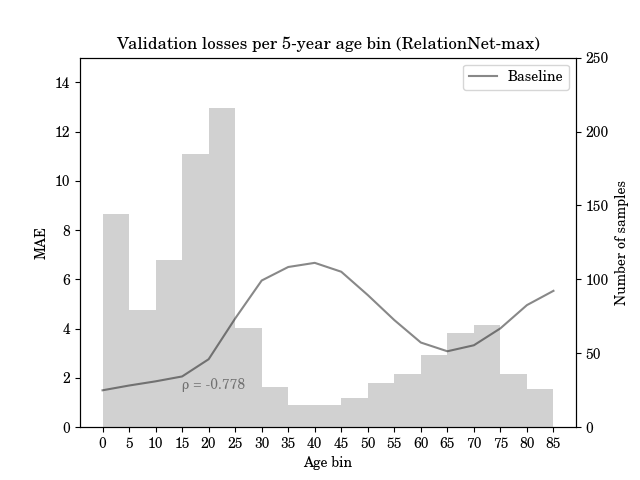
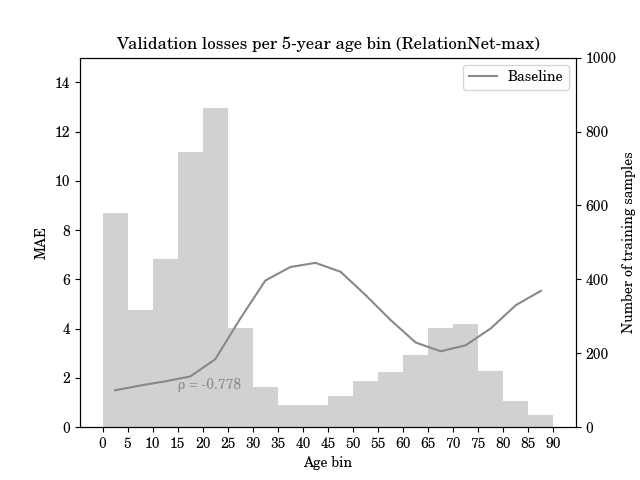
fix plotting code

diff --git a/age_prediction/plot_results.py b/age_prediction/plot_results.py
@@ -40,26 +40,27 @@ def describe_job(cfg):
     return describe_strat(cfg) + f" ({cfg['arch']})"
 
 def load_results():
-    with open(f"{ROOT_DIR}/bookkeeping.yaml", 'r') as f:
-        parsed_yaml = yaml.safe_load(f)
-    job_ids = [job_id for d in parsed_yaml.values() for job_id in d.values()]
-    job_ids = list(filter(has_results, job_ids))
-
     all_results = {}
-    for job_id in job_ids:
-        #train_losses = np.loadtxt(f"{RESULTS_DIR}/{job_id}/train_losses_over_time.txt")
-        #val_losses = np.loadtxt(f"{RESULTS_DIR}/{job_id}/val_losses_over_time.txt")
-        val_preds = pd.read_csv(f"{RESULTS_DIR}/{job_id}/best_model_val_preds.csv")
-        with open(f"{RESULTS_DIR}/{job_id}/config.json") as f:
-            cfg = json.load(f)
-        
-        job_desc = describe_job(cfg)
-        results = {}
-        #results['train_losses'] = train_losses
-        #results['val_losses'] = val_losses
-        results['val_preds'] = val_preds
-        results['config'] = cfg
-        all_results[job_desc] = results
+
+    with open(f"{ROOT_DIR}/bookkeeping.yaml", 'r') as f:
+        jobs = yaml.safe_load(f)
+
+        for (arch, d) in jobs.items():
+            for (strat, job_id) in d.items():
+                if not has_results(job_id):
+                    continue
+
+                val_preds = pd.read_csv(f"{RESULTS_DIR}/{job_id}/best_model_val_preds.csv")
+                with open(f"{RESULTS_DIR}/{job_id}/config.json") as f:
+                    cfg = json.load(f)
+                
+                #job_desc = describe_job(cfg)
+                job_desc = f"{strat} ({arch})"
+                results = {
+                    'val_preds': val_preds,
+                    'cfg': cfg
+                }
+                all_results[job_desc] = results
     
     return all_results
 
@@ -82,9 +83,13 @@ def plot_losses_over_time(results, fname):
     fig.savefig(f"{FIGURES_DIR}/{fname}")
     plt.close(fig)
 
-def plot_val_losses(all_results, arch, job_descs, fname):
-    MAXBIN = 17 # Maximum 5y age bin we're interested in (we ignore 90+)
-    BINSIZE = 5 # Width of each bin for plotting purposes
+def plot_val_losses(all_results, arch, job_descs, fname, sampling=None):
+    MAX_BIN = 17 # Maximum 5y age bin we're interested in (we ignore patients aged 90+)
+    BIN_WIDTH = 5 # Width of each bin for plotting purposes
+    MAX_AGE = (MAX_BIN+1)*BIN_WIDTH - 1
+    TRAIN_VAL_RATIO = 4. # Ratio of training set size to validation set size (it was an 80%/20% split)
+
+    LOSS_MAX_BIN = 9
 
     if '-' in arch:
         subname = arch[arch.index('-')+1:]
@@ -95,8 +100,8 @@ def plot_val_losses(all_results, arch, job_descs, fname):
         base_arch = arch
         pred_key = 'age_pred'
 
-    def mae(bin, df):
-        subjects_in_bin = df[(df['age'] // BINSIZE) == bin]
+    def mae(bin, df, bin_width=BIN_WIDTH):
+        subjects_in_bin = df[(df['age'] // bin_width) == bin]
         assert len(subjects_in_bin) > 0
         return np.mean(np.abs(subjects_in_bin['age'] - subjects_in_bin[pred_key]))
     
@@ -117,54 +122,95 @@ def plot_val_losses(all_results, arch, job_descs, fname):
     ax.set_ylabel("MAE")
     ax.set_ylim(0, 15)
     #ax2.set_ylabel("Number of samples", rotation=270)
-    ax2.set_ylabel("Number of samples")
-    ax2.set_ylim(0, 250)
+    ax2.set_ylabel("Number of training samples")
+    ax2.set_ylim(0, 1000)
     
-    # Calculate bin counts of the val df (these should be the same across all models)
-    bins = np.arange(MAXBIN + 1)
-    display_bins = [bin*BINSIZE for bin in bins]
+    # Calculate the bin counts of the train df (this should be the same across all models)
+    bins = np.arange(MAX_BIN + 1)
+    display_bins = [bin*BIN_WIDTH for bin in bins]
+    display_bins_incl = display_bins + [MAX_AGE+1]
+    centroids = [db + (BIN_WIDTH/2) for db in display_bins]
     val_df = list(all_results.values())[0]['val_preds']
-    bin_counts = [sum((val_df['age'] // BINSIZE) == bin) for bin in bins]
+    train_bin_counts = [TRAIN_VAL_RATIO * sum((val_df['age'] // BIN_WIDTH) == bin) for bin in bins]
 
     job_descs.insert(0, ('baseline', "Baseline", '#888888', '-')) # Show the curve for the baseline model in every plot
     for i, (desc, label, color, style) in enumerate(job_descs):
         cfg = f"{desc} ({base_arch})"
+        display_cfg = f"{desc} ({arch})"
         if cfg not in all_results:
-            print(f"Couldn't find {cfg} in results, skipping")
+            print(f"Couldn't find {display_cfg} in results, skipping")
+            print("======")
             continue
 
-        display_cfg = f"{desc} ({arch})"
         val_df = all_results[cfg]['val_preds']
 
-        # Calculate and print the MAE across all predictions
+        # Calculate and print the val MAE across all predictions
         overall_mae = np.mean(np.abs(val_df['age'] - val_df[pred_key]))
         print(f"Overall MAE for {display_cfg}: {overall_mae:.3f}")
 
-        # Smooth losses using a Gaussian kernel, and plot them
-        losses_per_bin = np.array([mae(bin, val_df) for bin in bins])
-        smoothed_losses = np.zeros(losses_per_bin.shape)
+        # Smooth val losses using a Gaussian kernel, and plot them
+        val_losses_per_bin = np.array([mae(bin, val_df) for bin in bins])
+        smoothed_losses = np.zeros(val_losses_per_bin.shape)
         sigma = 1.
         for bin in bins:
             kernel = np.exp(-(bins - bin) ** 2 / (2 * sigma ** 2))
             kernel = kernel / sum(kernel)
-            smoothed_losses[bin] = sum(losses_per_bin * kernel)
+            smoothed_losses[bin] = sum(val_losses_per_bin * kernel)
 
-        ax.set_xticks(display_bins)
-        ax.plot(display_bins, smoothed_losses, label=label, color=color, linestyle=style)
+        ax.set_xticks(display_bins_incl)
+        ax.plot(centroids, smoothed_losses, label=label, color=color, linestyle=style)
+        ax.set_zorder(10)
+        ax.patch.set_alpha(0.)
         
-        # Calculate Pearson correlation between losses / bin counts and annotate the plot with it
-        pcorr, _ = stats.pearsonr(losses_per_bin, bin_counts)
+        # Calculate Pearson correlation between val losses / train bin counts (per 5y bin) and annotate the plot with it
+        pcorr, _ = stats.pearsonr(val_losses_per_bin, train_bin_counts)
         print(f"ρ for {display_cfg}: {pcorr:.3f}")
         anno_x = [15, 30, 45, 60, 75][i] # X location of annotation
-        anno_y = smoothed_losses[anno_x//BINSIZE]-.5 # Y location of annotation
+        anno_y = smoothed_losses[anno_x//BIN_WIDTH]-.5 # Y location of annotation
         ax.annotate(f"ρ = {pcorr:.3f}", (anno_x, anno_y), color=color)
 
-        print()
+        # Calculate the validation loss per 1-year age bin.
+        # Group the losses themselves into 1y bins, and report their entropy.
+        val_bins_1y = [bin for bin in np.arange(MAX_AGE+1) if bin in set(val_df['age'] // 1)]
+        val_losses_per_1y_bin = np.array([mae(bin, val_df, bin_width=1) for bin in val_bins_1y])
+        val_loss_counts = {}
+        for loss_bin in range(LOSS_MAX_BIN+1):
+            val_loss_counts[loss_bin] = sum(
+                loss >= loss_bin and loss < (loss_bin+1) for loss in val_losses_per_1y_bin)
+        val_loss_counts[LOSS_MAX_BIN+1] = sum(loss >= (LOSS_MAX_BIN+1) for loss in val_losses_per_1y_bin)
+        n_losses = len(val_bins_1y)
+        ps = [count / n_losses for count in val_loss_counts.values()]
+        entropy = sum([0 if p == 0 else (-p * np.log(p)) for p in ps])
+        print(f"Entropy for {display_cfg}: {entropy:.3f}")
+
+        # Report the final criterion (MAE*entropy)
+        criterion = overall_mae*entropy
+        print(f"Criterion (=MAE*entropy) for {display_cfg}: {criterion:.3f}")
+
+        print("======")
     
     # Add legend
-    ax.legend()
-    bin_counts = [sum((val_df['age'] // BINSIZE) == bin) for bin in bins]
-    ax2.hist(display_bins, bins=display_bins, weights=bin_counts, color='#0f0f0f30')
+    l = ax.legend()
+    l.set_zorder(20)
+    x = display_bins
+    weights = train_bin_counts
+    color = '#0f0f0f30'
+    if sampling == 'under':
+        USAMP_LIMIT = 18
+        x = [x, x]
+        under_counts = [USAMP_LIMIT*5 for bin in bins]
+        under_counts[-1] = USAMP_LIMIT*3
+        weights = [weights, under_counts]
+        color = [color, 'pink']
+    elif sampling == 'over':
+        OSAMP_LIMIT = 126
+        x = [x, x]
+        over_counts = [OSAMP_LIMIT*5 for bin in bins]
+        over_counts[-1] = OSAMP_LIMIT*3
+        weights = [weights, over_counts]
+        color = [color, '#87cefa80']
+    ax2.hist(x, bins=display_bins_incl, weights=weights, color=color, stacked=False)
+
     fig.savefig(f"{FIGURES_DIR}/{fname}")
     plt.close(fig)
 
@@ -189,24 +235,28 @@ def main():
             [
                 ('under', "Undersampling", 'red', '-'),
                 ('scale-down', "Scaling down", 'red', '--'),
+            ],
+            f"val_losses_{arch}_undersampling.png", sampling='under')
+        plot_val_losses(all_results, arch,
+            [
                 ('over', "Oversampling", 'royalblue', '-'),
                 ('scale-up', "Scaling up", 'royalblue', '--')
             ],
-            f"val_losses_{arch}_resampling.png")
+            f"val_losses_{arch}_oversampling.png", sampling='over')
         plot_val_losses(all_results, arch,
             [
                 ('inv', "Inverse weighting", 'red', '-'),
-                ('inv + lds', "Inverse weighting + LDS", 'royalblue', '-'),
-                ('inv + fds', "Inverse weighting + FDS", 'orange', '-'),
-                ('inv + lds + fds', "Inverse weighting + LDS + FDS", 'green', '-')
+                ('inv+lds', "Inverse weighting + LDS", 'royalblue', '-'),
+                ('inv+fds', "Inverse weighting + FDS", 'orange', '-'),
+                ('inv+lds+fds', "Inverse weighting + LDS + FDS", 'green', '-')
             ],
             f"val_losses_{arch}_reweighting_inv.png")
         plot_val_losses(all_results, arch,
             [
                 ('sqrt_inv', "Square-root inverse weighting", 'red', '-'),
-                ('sqrt_inv + lds', "Square-root inverse weighting + LDS", 'royalblue', '-'),
-                ('sqrt_inv + fds', "Square-root inverse weighting + FDS", 'orange', '-'),
-                ('sqrt_inv + lds + fds', "Square-root inverse weighting + LDS + FDS", 'green', '-')
+                ('sqrt_inv+lds', "Square-root inverse weighting + LDS", 'royalblue', '-'),
+                ('sqrt_inv+fds', "Square-root inverse weighting + FDS", 'orange', '-'),
+                ('sqrt_inv+lds+fds', "Square-root inverse weighting + LDS + FDS", 'green', '-')
             ],
             f"val_losses_{arch}_reweighting_sqrt_inv.png")
     
@@ -217,7 +267,7 @@ def main():
     label_locs = np.arange(len(set(df['dataset']))) - 0.5
     plt.hist(df['dataset'], bins=label_locs)
     plt.title("Number of samples contributed by each dataset")
-    plt.xlabel("Dataset name")
+    plt.xlabel("Dataset")
     plt.ylabel("Number of samples")
     plt.savefig(os.path.join(FIGURES_DIR, 'dataset_counts.png'))
     plt.clf()
